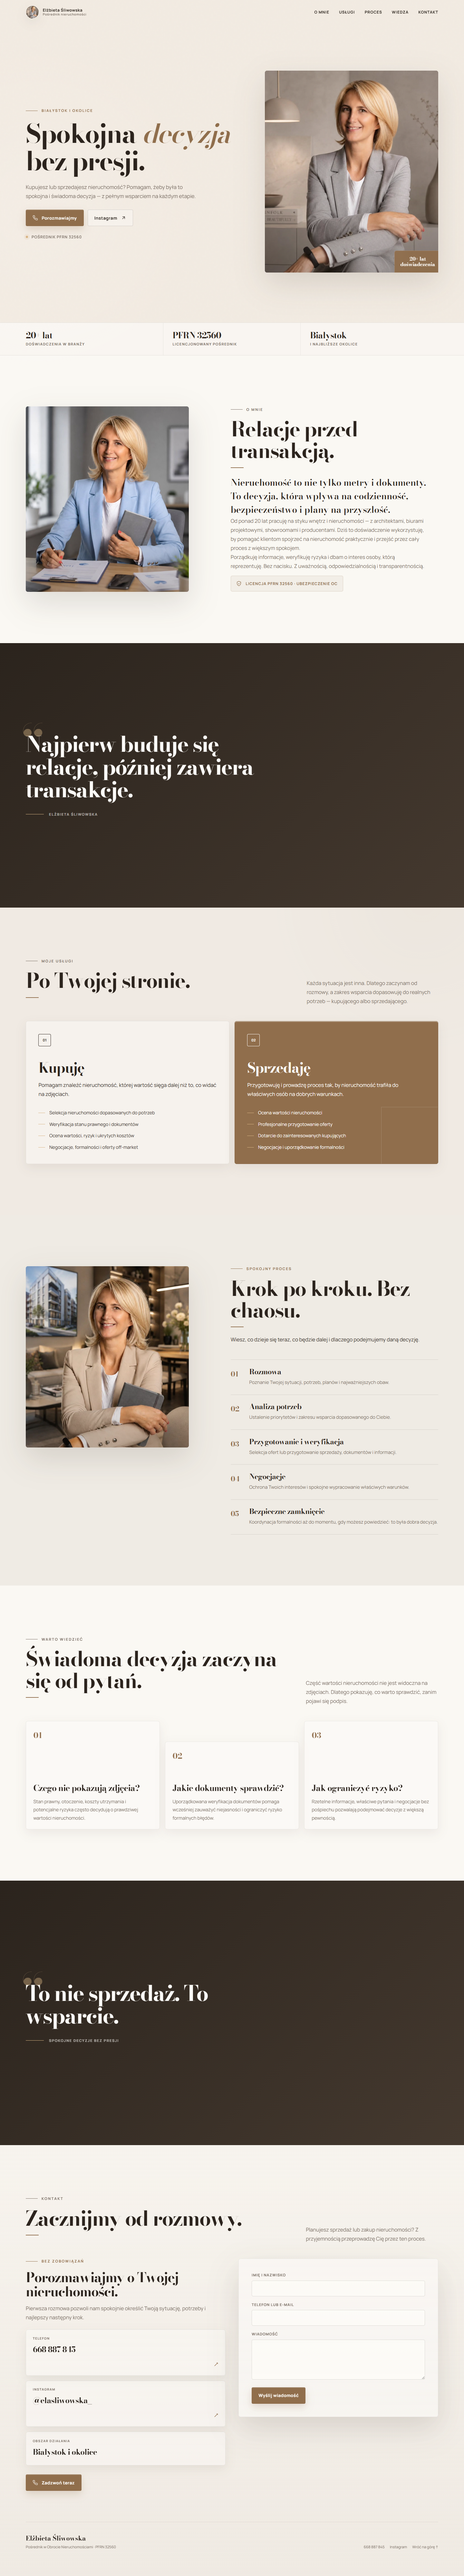
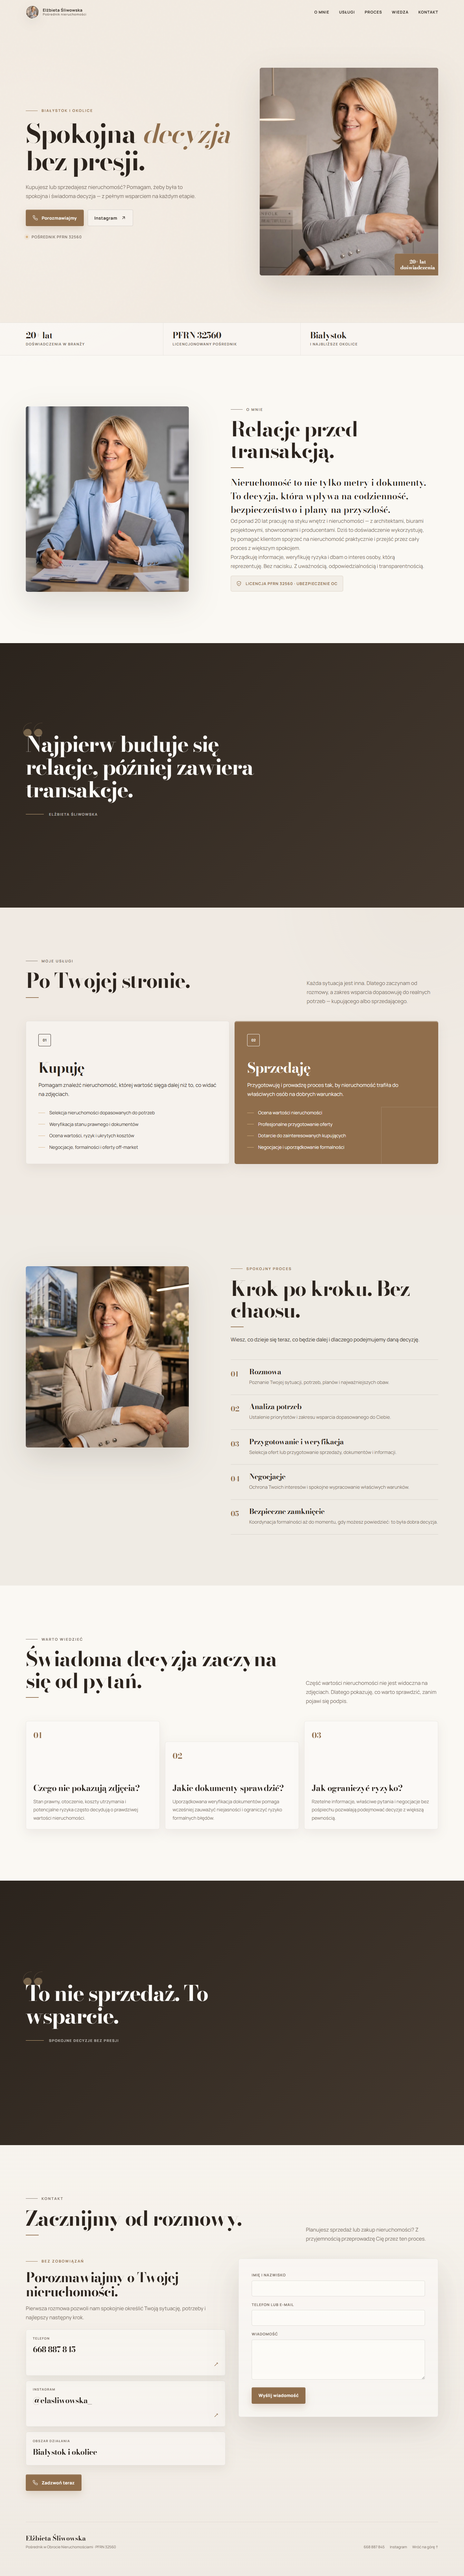
Zwieksz marginesy boczne i odstep miedzy tekstem a zdjeciem w hero

Changed region(s): [[0.5625, 0.0312, 0.9375, 0.1247]]

diff --git a/index.html b/index.html
@@ -146,8 +146,14 @@
     }
 
     .container {
-      width: min(100% - 3rem, 68rem);
+      width: min(100% - 8vw, 62rem);
       margin-inline: auto;
+    }
+
+    @media (min-width: 1400px) {
+      .container {
+        width: min(100% - 16vw, 62rem);
+      }
     }
 
     .eyebrow {
@@ -916,7 +922,7 @@
 
     @media (min-width: 640px) {
       .container {
-        width: min(100% - 3rem, 82rem);
+        width: min(100% - 8vw, 62rem);
       }
 
       .trust-grid {
@@ -963,12 +969,8 @@
       }
 
       .hero-grid {
-        grid-template-columns: minmax(0, 1.16fr) minmax(22rem, 0.84fr);
-        gap: 0;
-      }
-
-      .hero-copy {
-        margin-right: -4rem;
+        grid-template-columns: minmax(0, 1.1fr) minmax(20rem, 0.9fr);
+        gap: 3rem;
       }
 
       .hero-visual {
